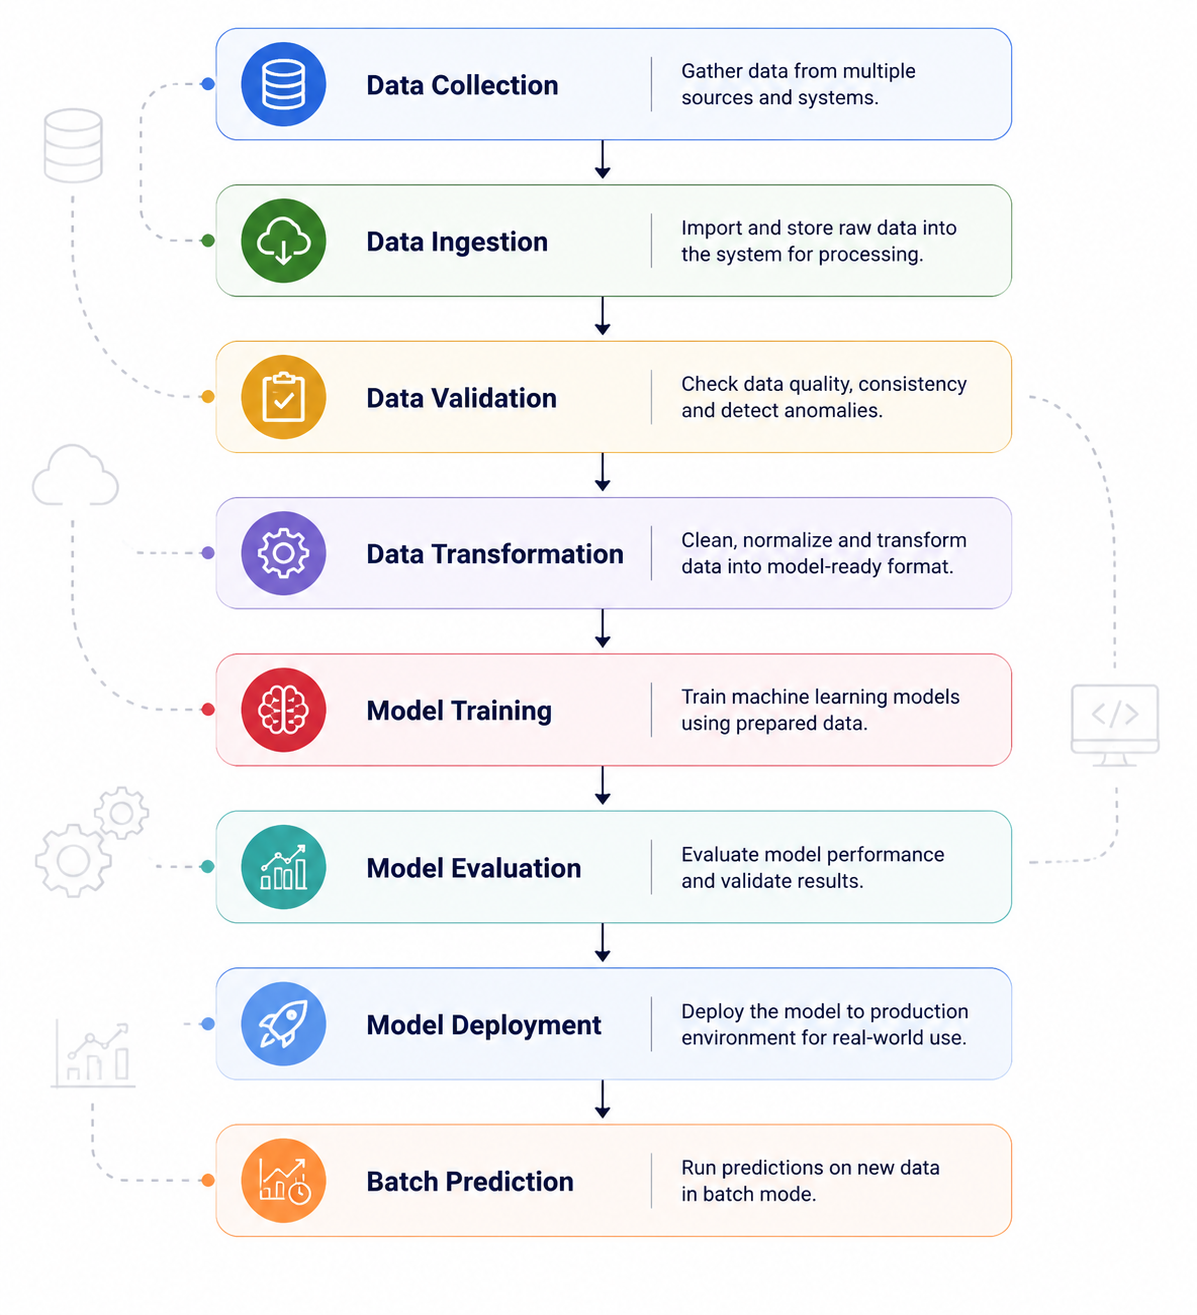
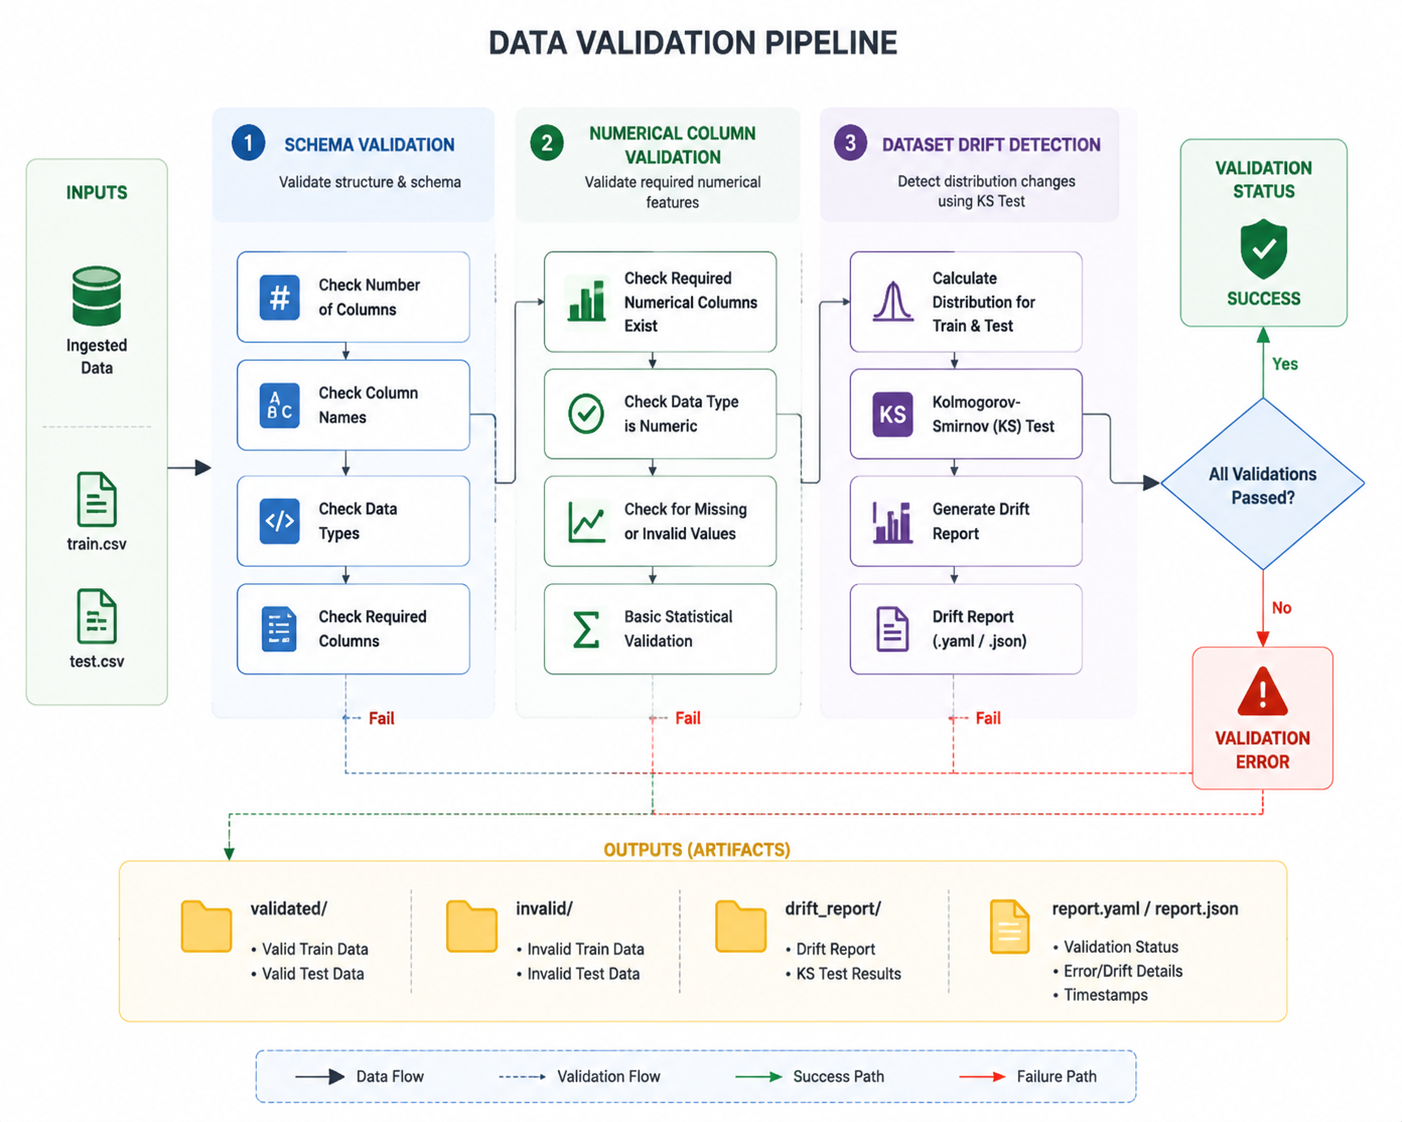
Updated Readme.md

diff --git a/README.md b/README.md
@@ -6,7 +6,8 @@
 
 The project implements a **production-ready ML pipeline** following industry-standard MLOps practices:
 
-![alt text](image.png)
+![alt text](image-1.png)
+
 ---
 
 ## 🚀 Key Features
@@ -49,3 +50,101 @@ This project follows modern **Machine Learning Engineering principles**:
 | Data Processing | Pandas, NumPy |
 
 ---
+
+## 🎯 Problem Statement
+
+With the rapid increase in cyber threats and sophisticated attacks, detecting malicious network activity automatically has become a critical requirement for modern security systems.
+
+This project aims to build a **Machine Learning-based Network Security Threat Detection System** that analyzes network traffic patterns and classifies network connections into:
+
+- ✅ **Normal Traffic** — Legitimate network activity
+- 🚨 **Malicious Traffic** — Potentially harmful or suspicious activity
+
+The goal is to develop an automated, scalable, and production-ready ML pipeline capable of identifying security threats efficiently.
+
+## 🚀 Features
+
+### 1. 📥 Data Ingestion
+
+**Responsibilities:**
+
+The Data Ingestion component is responsible for collecting raw network security data and preparing it for the ML pipeline.
+
+- 🔗 Connects with **MongoDB database** to fetch raw phishing/network security data.
+- 📂 Extracts and stores raw data into the feature store.
+- 🔀 Splits the dataset into **training and testing datasets**.
+- 📦 Generates ingestion artifacts required for downstream pipeline components.
+
+**Output Structure:**
+
+```text
+Artifacts/
+└── data_ingestion/
+    ├── feature_store/
+    └── ingested/
+        ├── train.csv
+        └── test.csv
+
+### 2. ✅ Data Validation
+
+The **Data Validation** component ensures that the dataset is reliable, consistent, and suitable for machine learning model training.
+
+#### Responsibilities:
+
+- 🔍 Validates incoming data quality before model training.
+- 📋 Ensures dataset structure matches the expected schema.
+- 📊 Detects data distribution changes between training and incoming datasets.
+
+---
+
+### Validation Steps
+
+#### 1. Schema Validation
+
+Checks whether the dataset follows the expected structure:
+
+- Number of columns
+- Column names
+- Data types
+- Required features availability
+
+---
+
+#### 2. Numerical Column Validation
+
+Ensures that all required numerical features:
+
+- Exist in the dataset
+- Contain valid numerical values
+- Match expected data formats
+
+---
+
+#### 3. Dataset Drift Detection
+
+Detects changes in data distribution using the:
+
+**Kolmogorov-Smirnov (KS) Test**
+
+The KS test compares the statistical distribution of training data and incoming data to identify significant changes that may impact model performance.
+
+---
+
+### 📊 Data Validation Flow
+
+![alt text](image.png)
+
+---
+
+### Generated Artifacts
+
+```text
+Artifacts/
+└── data_validation/
+    ├── validated/
+    │   ├── train.csv
+    │   └── test.csv
+    ├── invalid/
+    │   ├── train.csv
+    │   └── test.csv
+    └── drift_report.yaml
